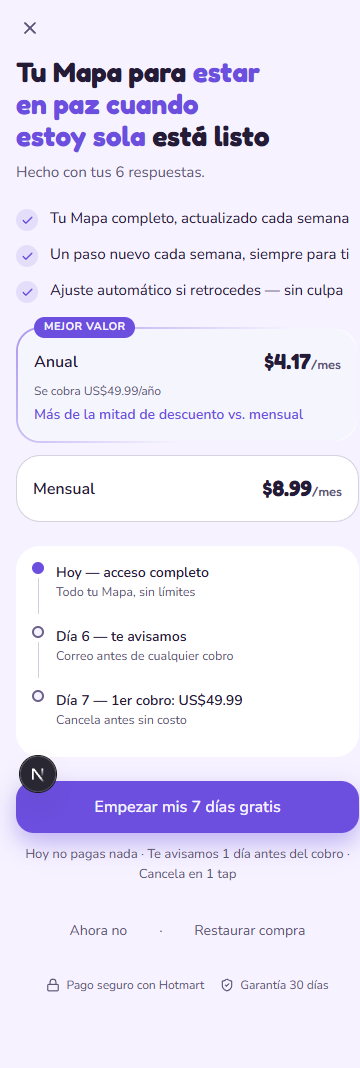
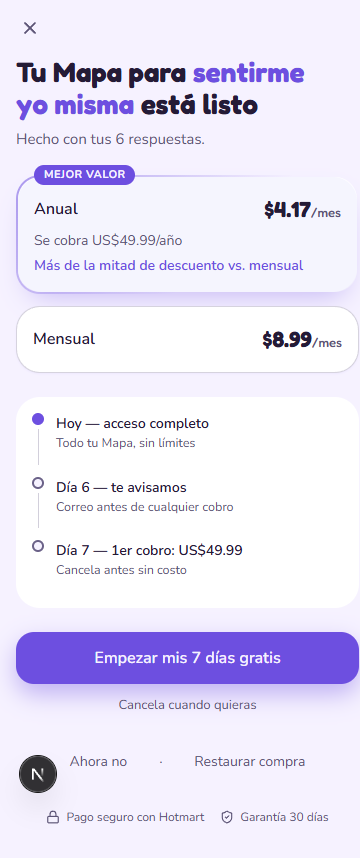
fix: onboarding/paywall — chip seleccionado, dispositivo ownable, fondo con profundidad, paywall mas corto
Corrige bug real: ChipOpcion nunca recibia seleccionado. Aplica tarjetas-pegatina + FondoFunnel + acento en titulares al onboarding. Simplifica el paywall a un solo visual de valor (timeline C4), corrige tamanos de texto bajo el minimo y quita una linea duplicada.

diff --git a/app/onboarding/page.tsx b/app/onboarding/page.tsx
@@ -13,7 +13,8 @@ import { useEffect, useState } from 'react';
 import { useRouter } from 'next/navigation';
 import { AnimatePresence, motion } from 'motion/react';
 import { Check } from 'lucide-react';
-import { FunnelHeader, BarraProgreso, ChipOpcion, PantallaPregunta, FunnelCta } from '@/components/funnel/ui';
+import { Hairline } from '@/components/landing/ui';
+import { FunnelHeader, BarraProgreso, ChipOpcion, PantallaPregunta, FunnelCta, FondoFunnel, conAcento } from '@/components/funnel/ui';
 import { guardarRespuestas, type RespuestasOnboarding } from '@/components/funnel/storage';
 
 type Paso =
@@ -30,6 +31,7 @@ export default function Onboarding() {
   const [pasoIdx, setPasoIdx] = useState(0);
   const [respuestas, setRespuestas] = useState<RespuestasOnboarding>({});
   const [minutos, setMinutos] = useState(10);
+  const [seleccion, setSeleccion] = useState<string | null>(null);
   const paso = ORDEN[pasoIdx];
 
   const avanzar = (patch?: Partial<RespuestasOnboarding>) => {
@@ -42,10 +44,22 @@ export default function Onboarding() {
       guardarRespuestas(nuevas);
     }
   };
-  const atras = () => pasoIdx > 0 && setPasoIdx(pasoIdx - 1);
+  const atras = () => {
+    setSeleccion(null);
+    pasoIdx > 0 && setPasoIdx(pasoIdx - 1);
+  };
+  /** El chip pasa a estado seleccionado INMEDIATAMENTE y se ve 300ms antes de avanzar (A3 de 50). */
+  const elegir = (op: string, campo: keyof RespuestasOnboarding) => {
+    setSeleccion(op);
+    setTimeout(() => {
+      avanzar({ [campo]: op } as Partial<RespuestasOnboarding>);
+      setSeleccion(null);
+    }, 300);
+  };
 
   return (
     <div className="min-h-dvh bg-[var(--bg)] [font-family:var(--font-body)]">
+      <FondoFunnel />
       <div className="mx-auto flex min-h-dvh w-full max-w-[520px] flex-col px-4">
         <FunnelHeader />
         {paso !== 'loading' && (
@@ -54,17 +68,17 @@ export default function Onboarding() {
 
         <AnimatePresence mode="wait">
           {paso === 'q1' && (
-            <PantallaPregunta key="q1" pregunta="¿Cuándo sientes ese vacío con más fuerza?">
-              {['Un domingo por la tarde', 'En una fiesta, rodeada de gente', 'De noche, antes de dormir', 'Otro momento'].map((op) => (
-                <ChipOpcion key={op} label={op} onClick={() => setTimeout(() => avanzar({ momentoVacio: op }), 300)} />
+            <PantallaPregunta key="q1" pregunta="¿Cuándo sientes ese vacío con más fuerza?" acento="vacío">
+              {['Un domingo por la tarde', 'En una fiesta, rodeada de gente', 'De noche, antes de dormir', 'Otro momento'].map((op, i) => (
+                <ChipOpcion key={op} index={i} label={op} seleccionado={seleccion === op} onClick={() => elegir(op, 'momentoVacio')} />
               ))}
             </PantallaPregunta>
           )}
 
           {paso === 'q2' && (
-            <PantallaPregunta key="q2" pregunta="¿Ya intentaste algo para esto?" microCopy="Sin juicios — nos ayuda a no repetir lo que ya no funcionó.">
-              {['Apps para hacer amigas', 'Un chatbot de compañía', 'Grupos o encuentros presenciales', 'Nada todavía'].map((op) => (
-                <ChipOpcion key={op} label={op} onClick={() => setTimeout(() => avanzar({ yaIntento: op }), 300)} />
+            <PantallaPregunta key="q2" pregunta="¿Ya intentaste algo para esto?" acento="intentaste" microCopy="Sin juicios — nos ayuda a no repetir lo que ya no funcionó.">
+              {['Apps para hacer amigas', 'Un chatbot de compañía', 'Grupos o encuentros presenciales', 'Nada todavía'].map((op, i) => (
+                <ChipOpcion key={op} index={i} label={op} seleccionado={seleccion === op} onClick={() => elegir(op, 'yaIntento')} />
               ))}
             </PantallaPregunta>
           )}
@@ -73,23 +87,24 @@ export default function Onboarding() {
             <PantallaReconocimiento
               key="recon1"
               titulo="Ya lo intentaste, y no es que te falte algo"
+              acento="no es que te falte algo"
               texto="Las apps de match te dejan justo después de conectar — la conversación se apaga sola, no por ti. Tu Mapa de Desconexión empieza un paso antes: por entender de dónde viene tu patrón."
               onContinuar={() => avanzar()}
             />
           )}
 
           {paso === 'q3' && (
-            <PantallaPregunta key="q3" pregunta="¿Qué es lo que más extrañas?">
-              {['Alguien a quien llamar sin pensarlo', 'Un grupo que también me busque a mí', 'Sentirme yo misma otra vez', 'Estar en paz cuando estoy sola'].map((op) => (
-                <ChipOpcion key={op} label={op} onClick={() => setTimeout(() => avanzar({ deseo: op }), 300)} />
+            <PantallaPregunta key="q3" pregunta="¿Qué es lo que más extrañas?" acento="extrañas">
+              {['Alguien a quien llamar sin pensarlo', 'Un grupo que también me busque a mí', 'Sentirme yo misma otra vez', 'Estar en paz cuando estoy sola'].map((op, i) => (
+                <ChipOpcion key={op} index={i} label={op} seleccionado={seleccion === op} onClick={() => elegir(op, 'deseo')} />
               ))}
             </PantallaPregunta>
           )}
 
           {paso === 'q4' && (
-            <PantallaPregunta key="q4" pregunta="¿En qué momento del día quieres tu paso diario?" microCopy="Así te avisamos a la hora en la que de verdad vas a leerlo.">
-              {['Al despertar', 'Al mediodía', 'En la noche'].map((op) => (
-                <ChipOpcion key={op} label={op} onClick={() => setTimeout(() => avanzar({ momentoDelDia: op }), 300)} />
+            <PantallaPregunta key="q4" pregunta="¿En qué momento del día quieres tu paso diario?" acento="paso diario" microCopy="Así te avisamos a la hora en la que de verdad vas a leerlo.">
+              {['Al despertar', 'Al mediodía', 'En la noche'].map((op, i) => (
+                <ChipOpcion key={op} index={i} label={op} seleccionado={seleccion === op} onClick={() => elegir(op, 'momentoDelDia')} />
               ))}
             </PantallaPregunta>
           )}
@@ -99,9 +114,9 @@ export default function Onboarding() {
           )}
 
           {paso === 'q6' && (
-            <PantallaPregunta key="q6" pregunta="¿Cómo llegaste a Vínculo?">
-              {['Instagram o TikTok', 'Una recomendación', 'Mujer Divina', 'Google', 'Otro'].map((op) => (
-                <ChipOpcion key={op} label={op} onClick={() => setTimeout(() => avanzar({ comoLlego: op }), 300)} />
+            <PantallaPregunta key="q6" pregunta="¿Cómo llegaste a Vínculo?" acento="Vínculo">
+              {['Instagram o TikTok', 'Una recomendación', 'Mujer Divina', 'Google', 'Otro'].map((op, i) => (
+                <ChipOpcion key={op} index={i} label={op} seleccionado={seleccion === op} onClick={() => elegir(op, 'comoLlego')} />
               ))}
             </PantallaPregunta>
           )}
@@ -110,6 +125,7 @@ export default function Onboarding() {
             <PantallaReconocimiento
               key="recon2"
               titulo="Tus respuestas te describen"
+              acento="te describen"
               texto="Eres alguien que prefiere entender antes de actuar — no todas se detienen a mirar su propio patrón antes de salir a buscar gente nueva. Tu Mapa parte exactamente de esa fortaleza."
               onContinuar={() => avanzar()}
             />
@@ -131,10 +147,12 @@ export default function Onboarding() {
 
 function PantallaReconocimiento({
   titulo,
+  acento,
   texto,
   onContinuar,
 }: {
   titulo: string;
+  acento: string;
   texto: string;
   onContinuar: () => void;
 }) {
@@ -146,14 +164,16 @@ function PantallaReconocimiento({
       transition={{ duration: 0.3, ease: [0.16, 1, 0.3, 1] }}
       className="flex flex-1 flex-col items-center justify-center gap-5 pb-10 pt-6 text-center"
     >
-      <span className="flex size-16 items-center justify-center rounded-full bg-[color-mix(in_oklab,var(--accent)_12%,transparent)]">
-        <svg width="30" height="30" viewBox="0 0 24 24" fill="none" stroke="var(--accent)" strokeWidth="2" strokeLinecap="round" strokeLinejoin="round" aria-hidden="true">
-          <path d="M12 22c4-3 7-6.5 7-11a7 7 0 0 0-14 0c0 4.5 3 8 7 11Z" />
-          <circle cx="12" cy="11" r="2.5" />
-        </svg>
-      </span>
+      <Hairline emphasis className="rounded-full">
+        <span className="flex size-16 items-center justify-center rounded-full bg-[color-mix(in_oklab,var(--accent)_12%,transparent)]">
+          <svg width="30" height="30" viewBox="0 0 24 24" fill="none" stroke="var(--accent)" strokeWidth="2" strokeLinecap="round" strokeLinejoin="round" aria-hidden="true">
+            <path d="M12 22c4-3 7-6.5 7-11a7 7 0 0 0-14 0c0 4.5 3 8 7 11Z" />
+            <circle cx="12" cy="11" r="2.5" />
+          </svg>
+        </span>
+      </Hairline>
       <h1 className="text-balance text-[26px] font-bold leading-[1.15] text-[var(--text-primary)] [font-family:var(--font-display)]">
-        {titulo}
+        {conAcento(titulo, acento)}
       </h1>
       <p className="max-w-[38ch] text-[15px] leading-relaxed text-[var(--text-secondary)]">{texto}</p>
       <div className="mt-4 w-full">
@@ -175,7 +195,7 @@ function PantallaSlider({
   const feedback =
     minutos <= 7 ? 'Para empezar suave' : minutos <= 15 ? 'Un ritmo sostenible' : 'Vas con todo desde el día 1';
   return (
-    <PantallaPregunta pregunta="¿Cuántos minutos puedes dedicarte al día?">
+    <PantallaPregunta pregunta="¿Cuántos minutos puedes dedicarte al día?" acento="minutos">
       <div className="flex flex-col items-center gap-1 py-2">
         <span className="text-[44px] font-bold tabular-nums leading-none text-[var(--text-primary)] [font-family:var(--font-display)]">
           {minutos}

diff --git a/app/paywall/page.tsx b/app/paywall/page.tsx
@@ -13,7 +13,8 @@ import { useEffect, useState } from 'react';
 import { useRouter } from 'next/navigation';
 import { motion } from 'motion/react';
 import { X, ShieldCheck, Lock } from 'lucide-react';
-import { CheckCustom, Hairline } from '@/components/landing/ui';
+import { Hairline } from '@/components/landing/ui';
+import { FondoFunnel } from '@/components/funnel/ui';
 import { leerRespuestas, contarRespuestas } from '@/components/funnel/storage';
 
 type PlanId = 'anual' | 'mensual';
@@ -46,9 +47,11 @@ export default function Paywall() {
   }, []);
 
   const seleccionado = PLANES[plan];
+  const deseoCorto = deseo.split(' ').slice(0, 3).join(' ');
 
   return (
     <div className="min-h-dvh bg-[var(--bg)] [font-family:var(--font-body)]">
+      <FondoFunnel />
       <div className="mx-auto flex min-h-dvh w-full max-w-[520px] flex-col px-4 pb-8">
         {/* (1) Cierre — 44px, visible desde el frame 1 */}
         <div className="flex h-14 items-center justify-between">
@@ -68,25 +71,15 @@ export default function Paywall() {
           variants={{ hidden: {}, visible: { transition: { staggerChildren: 0.07 } } }}
           className="flex flex-col gap-6"
         >
-          {/* (2) Headline con el deseo real + inversión visible (costo hundido) */}
+          {/* (2) Headline con el deseo real (acento recortado a 2-3 palabras) + inversión visible (costo hundido) */}
           <motion.div variants={{ hidden: { opacity: 0, y: 16 }, visible: { opacity: 1, y: 0 } }}>
             <h1 className="text-balance text-[28px] font-bold leading-[1.15] text-[var(--text-primary)] [font-family:var(--font-display)]">
-              Tu Mapa para <span className="text-[var(--accent)]">{deseo}</span> está listo
+              Tu Mapa para <span className="text-[var(--accent)]">{deseoCorto}</span> está listo
             </h1>
             <p className="mt-2 text-[15px] text-[var(--text-secondary)]">
               Hecho con tus {nRespuestas} respuestas.
             </p>
           </motion.div>
-
-          {/* (3) Visual del valor — value stack (variante d de C2) */}
-          <motion.ul variants={{ hidden: { opacity: 0, y: 16 }, visible: { opacity: 1, y: 0 } }} className="flex flex-col gap-3">
-            {['Tu Mapa completo, actualizado cada semana', 'Un paso nuevo cada semana, siempre para ti', 'Ajuste automático si retrocedes — sin culpa'].map((f) => (
-              <li key={f} className="flex items-start gap-3 text-[15px] text-[var(--text-primary)]">
-                <CheckCustom />
-                <span>{f}</span>
-              </li>
-            ))}
-          </motion.ul>
 
           {/* (4)(5) Plan cards — anual primero en el DOM, pre-seleccionado */}
           <motion.div variants={{ hidden: { opacity: 0, y: 16 }, visible: { opacity: 1, y: 0 } }} className="flex flex-col gap-3">
@@ -111,9 +104,10 @@ export default function Paywall() {
             >
               Empezar mis 7 días gratis
             </motion.button>
-            {/* (7) Reversibilidad — la verdad del puente, 3 bullets (02C) */}
+            {/* (7) Reversibilidad — corta a propósito: el timeline de arriba ya es la
+                verdad del puente (C4bis prohíbe duplicarla) */}
             <p className="mt-3 text-center text-[13px] text-[var(--text-secondary)]">
-              Hoy no pagas nada · Te avisamos 1 día antes del cobro · Cancela en 1 tap
+              Cancela cuando quieras
             </p>
           </motion.div>
 
@@ -161,7 +155,9 @@ function PlanCard({
         type="button"
         onClick={onClick}
         className={`w-full rounded-[var(--radius-card)] p-4 text-left transition-colors ${
-          activo ? 'bg-[color-mix(in_oklab,var(--accent)_6%,var(--surface))]' : 'border border-[color-mix(in_oklab,var(--text-tertiary)_28%,transparent)] bg-[var(--surface)]'
+          activo
+            ? 'bg-[color-mix(in_oklab,var(--accent)_6%,var(--surface))] shadow-[0_14px_28px_-12px_color-mix(in_oklab,var(--accent)_40%,transparent)]'
+            : 'border border-[color-mix(in_oklab,var(--text-tertiary)_28%,transparent)] bg-[var(--surface)] shadow-[var(--shadow-1)]'
         }`}
       >
         <div className="flex items-center justify-between">
@@ -170,7 +166,7 @@ function PlanCard({
             {precioMes}<span className="text-[13px] font-medium text-[var(--text-secondary)]">/mes</span>
           </span>
         </div>
-        {totalAnual && <p className="mt-1 text-[12px] text-[var(--text-secondary)]">{totalAnual}</p>}
+        {totalAnual && <p className="mt-1 text-[14px] text-[var(--text-secondary)]">{totalAnual}</p>}
         {ahorro && <p className="mt-1 text-[14px] font-semibold text-[var(--accent)]">{ahorro}</p>}
       </button>
     </div>
@@ -187,7 +183,15 @@ function TimelineItem({ activo, ultimo, label, detalle }: { activo?: boolean; ul
     <div className="flex gap-3">
       <div className="flex flex-col items-center">
         <span className={`size-3 rounded-full ${activo ? 'bg-[var(--accent)]' : 'border-2 border-[var(--text-tertiary)] bg-[var(--bg)]'}`} />
-        {!ultimo && <span className="mt-1 w-px flex-1 bg-[color-mix(in_oklab,var(--text-tertiary)_30%,transparent)]" />}
+        {!ultimo && (
+          <motion.span
+            initial={{ scaleY: 0 }}
+            animate={{ scaleY: 1 }}
+            transition={{ duration: 0.5, ease: [0.16, 1, 0.3, 1], delay: 0.3 }}
+            style={{ transformOrigin: 'top' }}
+            className="mt-1 w-px flex-1 bg-[color-mix(in_oklab,var(--text-tertiary)_30%,transparent)]"
+          />
+        )}
       </div>
       <div className="pb-3">
         <p className="text-[14px] font-semibold text-[var(--text-primary)]">{label}</p>

diff --git a/components/funnel/ui.tsx b/components/funnel/ui.tsx
@@ -52,25 +52,30 @@ export function BarraProgreso({ pct, onAtras }: { pct: number; onAtras?: () => v
   );
 }
 
-/** Chip de opción de ancho completo — selección única, auto-avanza (A2/A3 de 50). */
+/** Chip de opción de ancho completo — selección única, auto-avanza (A2/A3 de 50).
+ * Dispositivo ownable de FICHA-ARTE.md (tarjetas-pegatina): rotación ligera alternada
+ * por índice, la misma técnica que la sección Problema de la landing. */
 export function ChipOpcion({
   label,
   seleccionado,
   onClick,
+  index = 0,
 }: {
   label: string;
   seleccionado?: boolean;
   onClick: () => void;
+  index?: number;
 }) {
   return (
     <motion.button
       type="button"
       whileTap={{ scale: 0.97 }}
       onClick={onClick}
+      style={{ transform: `rotate(${index % 2 === 0 ? -1.4 : 1.1}deg)` }}
       className={`flex h-14 w-full items-center justify-between rounded-[var(--radius-button)] px-4 text-[16px] font-medium transition-colors duration-150 ${
         seleccionado
-          ? 'border-[1.5px] border-[var(--accent)] bg-[color-mix(in_oklab,var(--accent)_10%,transparent)] text-[var(--text-primary)]'
-          : 'border border-[color-mix(in_oklab,var(--text-tertiary)_28%,transparent)] bg-[var(--surface)] text-[var(--text-primary)]'
+          ? 'border-[1.5px] border-[var(--accent)] bg-[color-mix(in_oklab,var(--accent)_10%,transparent)] text-[var(--text-primary)] shadow-[0_8px_18px_-6px_color-mix(in_oklab,var(--accent)_45%,transparent)]'
+          : 'border border-[color-mix(in_oklab,var(--text-tertiary)_28%,transparent)] bg-[var(--surface)] text-[var(--text-primary)] shadow-[var(--shadow-1)]'
       }`}
     >
       <span className="text-left">{label}</span>
@@ -88,13 +93,44 @@ export function ChipOpcion({
   );
 }
 
+/** Palabra(s) clave resaltadas en acento dentro de un titular — JERARQUÍA DE ÉNFASIS (55). */
+export function conAcento(texto: string, resaltar: string): ReactNode {
+  const i = texto.toLowerCase().indexOf(resaltar.toLowerCase());
+  if (i === -1) return texto;
+  return (
+    <>
+      {texto.slice(0, i)}
+      <span className="text-[var(--accent)]">{texto.slice(i, i + resaltar.length)}</span>
+      {texto.slice(i + resaltar.length)}
+    </>
+  );
+}
+
+/** Fondo con profundidad del funnel — mesh sutil del acento (nunca fill plano, 14). */
+export function FondoFunnel() {
+  return (
+    <div
+      aria-hidden="true"
+      className="pointer-events-none fixed inset-0 -z-10"
+      style={{
+        background:
+          'radial-gradient(720px 420px at 15% -8%, color-mix(in oklab, var(--accent) 10%, transparent) 0%, transparent 60%), ' +
+          'radial-gradient(560px 360px at 100% 8%, color-mix(in oklab, var(--accent-2) 8%, transparent) 0%, transparent 55%)',
+      }}
+    />
+  );
+}
+
 /** Contenedor de una pregunta: título + micro-copy + lista de chips, con transición A4. */
 export function PantallaPregunta({
   pregunta,
+  acento,
   microCopy,
   children,
 }: {
   pregunta: string;
+  /** Palabra o frase corta del titular a resaltar en var(--accent) — JERARQUÍA DE ÉNFASIS (55). */
+  acento?: string;
   microCopy?: string;
   children: ReactNode;
 }) {
@@ -105,10 +141,10 @@ export function PantallaPregunta({
       animate={{ opacity: 1, x: 0 }}
       exit={{ opacity: 0, x: -24 }}
       transition={{ duration: 0.3, ease: [0.16, 1, 0.3, 1] }}
-      className="flex flex-col gap-3 pt-6"
+      className="flex flex-1 flex-col justify-center gap-3 pb-20"
     >
       <h1 className="text-balance text-[28px] font-bold leading-[1.12] tracking-[-0.01em] text-[var(--text-primary)] [font-family:var(--font-display)]">
-        {pregunta}
+        {acento ? conAcento(pregunta, acento) : pregunta}
       </h1>
       {microCopy && <p className="text-[15px] leading-snug text-[var(--text-secondary)]">{microCopy}</p>}
       <div className="mt-3 flex flex-col gap-3">{children}</div>

diff --git a/docs/revisiones/paywall-veredicto.md b/docs/revisiones/paywall-veredicto.md
@@ -1,0 +1,14 @@
+# VEREDICTO revisor-visual — paywall
+Fecha: 2026-09-22 00:00
+Screenshot: docs/revisiones/paywall-375.png
+Usabilidad: 31/40
+Craft: 9/20
+Copy (si vende): N-A
+Fidelidad (si hubo referencia): N-A
+Veredicto: NO LISTA
+Top defectos:
+1. [Estructura completa de la pantalla] Se apilan DOS visuales del valor (value stack de 3 checks + timeline C4 completo) cuando la doc (50 §C4) ordena usar el timeline como visual DEFAULT único en paywall CON trial y reservar el value stack para hard paywall SIN trial — el resultado es una pantalla ~950-1000px de alto en un viewport de 844px: el CTA queda fuera del primer viewport, violando el requisito de C1 ("deben verse promesa, plan, precio y CTA" en 390x844) → eliminar el bloque de 3 checks y dejar solo el timeline como visual del valor.
+2. [Bajo cada plan card] El total anual "Se cobra US$49.99/año" está a 12px (line 173 de page.tsx: `text-[12px]`) — la doc exige mínimo 14px móvil para precio/legal crítico y lo lista explícitamente como anti-patrón en C5 ("Legal/precio crítico a 12px") → subir a `text-[14px]`.
+3. [Bajo el CTA] La línea de reversibilidad "Hoy no pagas nada · Te avisamos 1 día antes del cobro · Cancela en 1 tap" duplica exactamente lo que ya muestra el timeline de 3 nodos arriba — C4bis dice explícitamente "si el timeline ya muestra los 3, no duplicar" → quitar la línea repetida bajo el CTA o acortarla a "Cancela cuando quieras" como sugiere C4.
+4. [Toda la pantalla — fondo y cards] Cero rastro del dispositivo ownable de FICHA-ARTE.md ("tarjetas-pegatina" con rotación -1.2°/+1° en cards secundarias, chips con relieve soft-3D) ni de la profundidad prometida (sombras tintadas + degradé tonal + glow de esquina): fondo es un fill plano #F6F2FF, cards blancas rectas sin sombra ni rotación → aplicar la rotación alternada a las plan cards/timeline y agregar sombra tintada de violeta (--shadow-2) + glow sutil de esquina en el héroe, como define la ficha.
+5. [Headline] El acento cubre ~6 palabras ("estar en paz cuando estoy sola") cuando la doc pide resaltar 1-3 palabras clave que venden (nunca la frase completa) — diluye la jerarquía de énfasis → recortar el acento a la palabra/frase núcleo del deseo (ej. solo "en paz") y dejar el resto en texto primario.

diff --git a/docs/revisiones/onboarding-veredicto.md b/docs/revisiones/onboarding-veredicto.md
@@ -1,0 +1,14 @@
+# VEREDICTO revisor-visual — onboarding
+Fecha: 2026-09-22 00:00
+Screenshot: docs/revisiones/onboarding-q1.png (+ onboarding-q2.png, onboarding-recon1.png, onboarding-slider.png, onboarding-recon2.png, onboarding-loading.png)
+Usabilidad: 26/40
+Craft: 9/20
+Copy (si vende): N-A
+Fidelidad (si hubo referencia): N-A
+Veredicto: NO LISTA
+Top defectos:
+1. [Chips q1-q6] El estado "seleccionado" nunca se renderiza — page.tsx nunca pasa la prop `seleccionado` a `<ChipOpcion>` (grep confirma 0 usos); el usuario toca una opción y no ve borde/fondo acento ni check durante los 300ms antes de avanzar → pasar `seleccionado={respuestas.campo === op}` a cada ChipOpcion.
+2. [Fondo de las 6 pantallas] Fondo plano #F6F2FF sin mesh/gradiente ni sombras tintadas de violeta que exige FICHA-ARTE — incumple el GATE DE DETALLES PREMIUM ítem 5 (fondo con profundidad) → aplicar degradé/mesh radial sutil y sombras tintadas en chips y tarjeta héroe.
+3. [Chips y tarjetas de reconocimiento] El dispositivo ownable de FICHA-ARTE ("tarjetas-pegatina", rotación alternada -1.2°/+1° + relieve soft-3D) no se aplica en ninguna pantalla — cards perfectamente rectas, apariencia genérica/intercambiable con cualquier otra app → aplicar la rotación y el relieve definidos en la ficha.
+4. [Mitad inferior de q1, q2, q4] Contenido anclado arriba deja ~50% de la pantalla vacía sin motivo (viola la regla de espaciado: "si sobra espacio, centrar o dar más aire, nunca vacío muerto abajo") → centrar verticalmente el bloque pregunta+chips o llenar con contexto visual.
+5. [Titulares de las 6 pantallas] Bold completo pero sin ninguna palabra resaltada en color de acento, y sin hairline degradé visible en ningún elemento — incumple gate de detalles premium ítems 1 y 2 → resaltar 1-3 palabras clave del titular en var(--accent) y añadir un hairline degradé en un elemento clave.

diff --git a/ESTADO.md b/ESTADO.md
@@ -64,9 +64,9 @@ La usuaria ya tiene una comunidad propia, **Mujer Divina**, con encuentros temá
 ## Secuencia maestra de construcción (NO saltar)
 - Ruta aprobada: `/` (página de ventas) → `/onboarding` → `/paywall` (pantalla de planes) → `/login` → `/app`
 - Landing: construida — protagonista: el Mapa de Desconexión (hero + oferta) — veredicto docs/revisiones/landing-veredicto.md
-- Onboarding: pendiente — primera decisión: aún no diseñada
-- Paywall: pendiente
-- Login/Auth: pendiente
+- Onboarding: construida — 6 preguntas + 2 reconocimientos + loading — primera decisión: ¿cuándo sientes ese vacío con más fuerza? — veredicto docs/revisiones/onboarding-veredicto.md
+- Paywall: construida — plan recomendado: Anual $4.17/mes — veredicto docs/revisiones/paywall-veredicto.md
+- Login/Auth: construido — magic link + Google, simulado hasta Sesión 6 (Supabase real) — pantalla secundaria, sin revisor (medición + checklist E de 50)
 - App interna: pendiente
 - Servicios externos: pendiente
 
